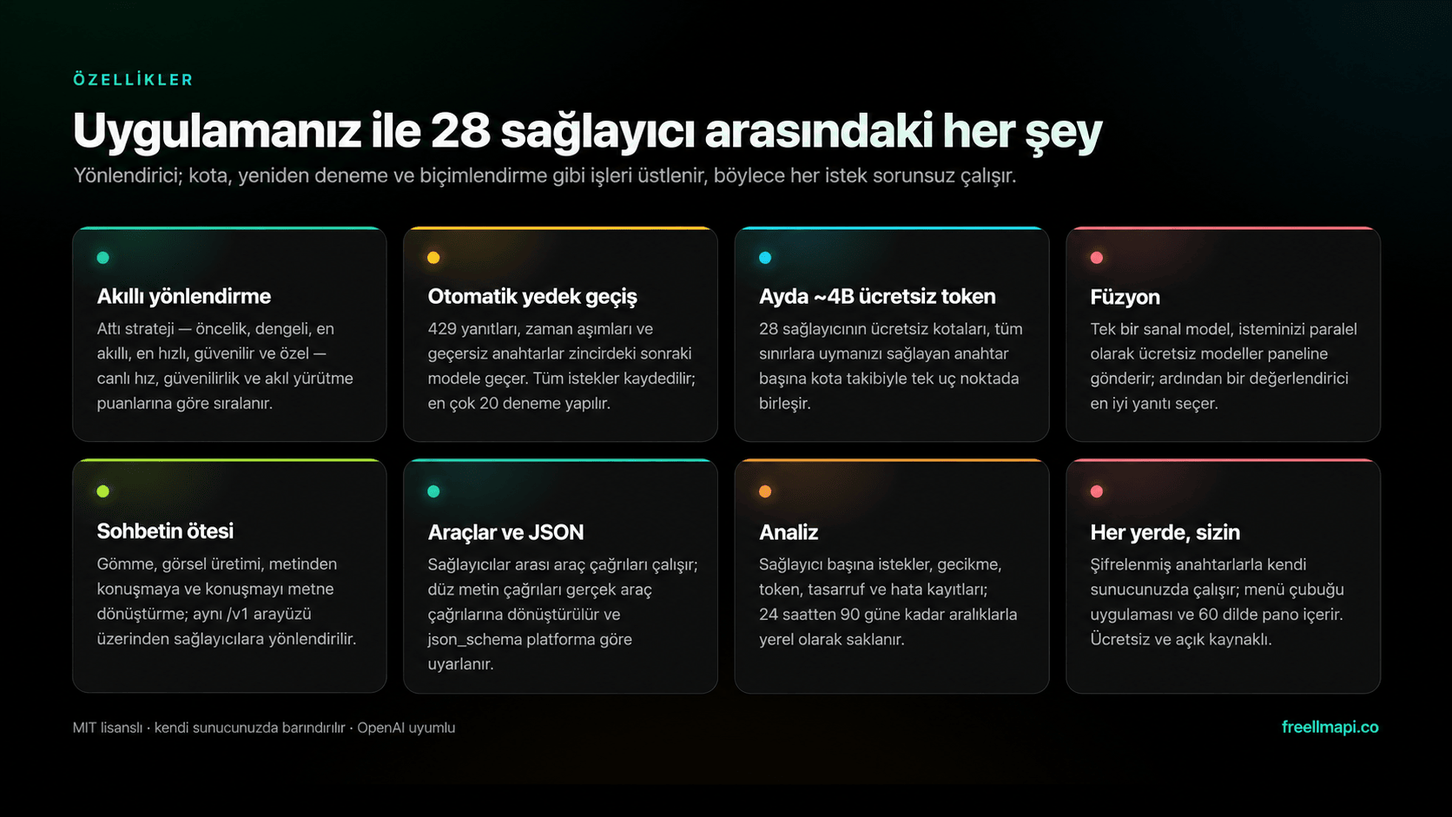
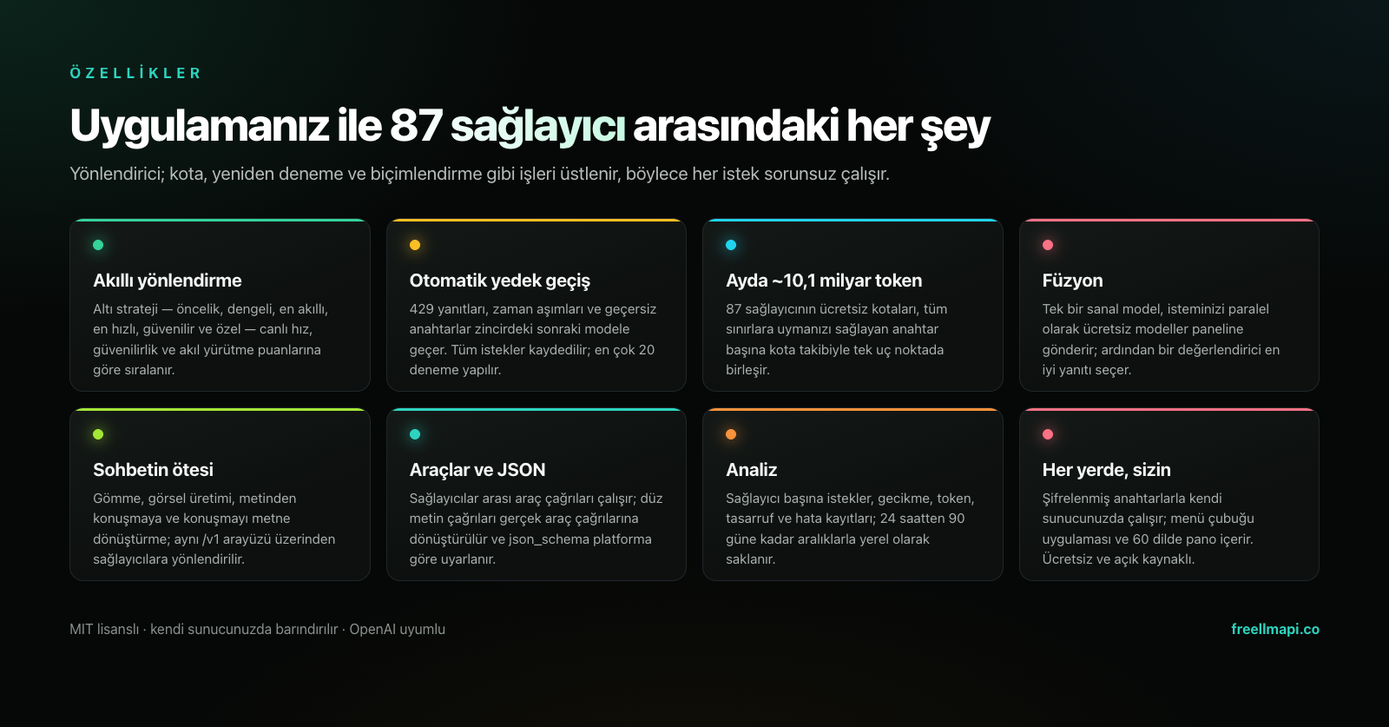
docs: refresh catalog numbers to 10.1B tokens, 87 providers, 1,313 endpoints
Updates the headline figures in the README (all five languages), the
architecture overview, and the four README graphics plus their Turkish
versions, from the live catalog 2026.11.12:

- 10.1 billion tokens/month: sum of every live-catalog row's listed
  monthlyTokenBudget (same per-endpoint method as the earlier 4B and 7.4B
  figures).
- 87 providers / 1,313 endpoints: /v1/meta live.inventory, matching the
  freellmapi.co homepage tiles.
- 736 model families (grouped by model name across all entry types).

Also fixes the stale 28-provider / ~4B / 339-endpoint figures that were
still baked into features.png, comparison.png and router-flow.png.

diff --git a/README.ru.md b/README.ru.md
@@ -2,7 +2,7 @@
 
 # FreeLLMAPI
 
-**7,4 миллиарда токенов в месяц. 34 бесплатных LLM-провайдера. 635 бесплатных модельных эндпоинтов. Один OpenAI-совместимый API.**
+**10,1 миллиарда токенов в месяц. 87 бесплатных LLM-провайдеров. 1313 бесплатных модельных эндпоинтов. Один OpenAI-совместимый API.**
 
 Объединяйте бесплатные тарифы десятков провайдеров, а также собственные OpenAI-совместимые эндпоинты для чата, эмбеддингов, генерации изображений и работы с аудио через единый API `/v1`. Ключи хранятся в зашифрованном виде. Маршрутизатор выбирает наиболее подходящую доступную модель, при ограничении запросов переключается на другого провайдера и учитывает расход по каждому ключу, помогая соблюдать бесплатные квоты.
 
@@ -13,7 +13,7 @@
 [![Docker image](https://img.shields.io/badge/ghcr.io-freellmapi-2496ED?logo=docker&logoColor=white)](https://github.com/tashfeenahmed/freellmapi/pkgs/container/freellmapi)
 [![Ask DeepWiki](https://img.shields.io/badge/DeepWiki-Ask-blue)](https://deepwiki.com/tashfeenahmed/freellmapi)
 
-**[freellmapi.co](https://freellmapi.co/?utm_source=github&utm_medium=readme&utm_campaign=repository&utm_content=readme_top)** · полный каталог: 474 семейства моделей и 635 бесплатных эндпоинтов
+**[freellmapi.co](https://freellmapi.co/?utm_source=github&utm_medium=readme&utm_campaign=repository&utm_content=readme_top)** · полный каталог: 736 семейств моделей и 1313 бесплатных эндпоинтов
 
 [English](README.md) · [Türkçe](README.tr.md) · [简体中文](README.zh-cn.md) · **Русский** · [O'zbekcha](README.uz.md)
 
@@ -61,13 +61,13 @@
 
 ## Зачем нужен FreeLLMAPI
 
-Крупные разработчики ИИ предлагают бесплатные тарифы: иногда это миллионы токенов в месяц и тысячи запросов в день. У каждого отдельно квота невелика, но в совокупности получается около **7,4 миллиарда токенов в месяц** для **474 семейств моделей и 635 эндпоинтов провайдеров**, от небольших быстрых моделей до более мощных.
+Крупные разработчики ИИ предлагают бесплатные тарифы: иногда это миллионы токенов в месяц и тысячи запросов в день. У каждого отдельно квота невелика, но в совокупности получается около **10,1 миллиарда токенов в месяц** для **736 семейств моделей и 1313 эндпоинтов провайдеров**, от небольших быстрых моделей до более мощных.
 
-Управлять таким количеством сервисов вручную неудобно: 34 SDK, 34 набора ограничений и столько же потенциальных точек отказа. FreeLLMAPI объединяет всё в одном OpenAI-совместимом API. Достаточно направить клиентскую библиотеку OpenAI на локальный сервер, и запросы будут распределяться между провайдерами, для которых вы добавили ключи.
+Управлять таким количеством сервисов вручную неудобно: 87 SDK, 87 наборов ограничений и столько же потенциальных точек отказа. FreeLLMAPI объединяет всё в одном OpenAI-совместимом API. Достаточно направить клиентскую библиотеку OpenAI на локальный сервер, и запросы будут распределяться между провайдерами, для которых вы добавили ключи.
 
 Бесплатные тарифы постоянно меняются: модели появляются и исчезают, ограничения корректируются. FreeLLMAPI автоматически загружает подписанный каталог с [freellmapi.co](https://freellmapi.co), поэтому данные обновляются без `git pull`. О различиях в скорости обновления рассказывается в разделе [Premium и оперативный каталог](#premium-и-оперативный-каталог).
 
-![Объединение бесплатных тарифов: около 7,4 млрд токенов в месяц от 34 провайдеров](repo-assets/free-tier.png)
+![Объединение бесплатных тарифов: около 10,1 млрд токенов в месяц от 87 провайдеров](repo-assets/free-tier.png)
 
 ## Поддерживаемые провайдеры
 
@@ -95,7 +95,7 @@
 </tr>
 </table>
 
-<i>… и ещё 22 бесплатных провайдера</i>
+<i>… и ещё 75 бесплатных провайдеров</i>
 
 </div>
 
@@ -213,7 +213,7 @@ FreeLLMAPI рассчитан прежде всего на локальное и
 
 Маршрутизатор поддерживает каталог моделей в актуальном состоянии: дважды в день скачивает подписанный каталог с [freellmapi.co](https://freellmapi.co) и обновляет локальную БД новыми моделями, изменениями квот и исправлениями особенностей провайдеров. Ваши настройки включения/отключения моделей и пользовательские провайдеры остаются нетронутыми. Каждая загрузка перед применением проверяется закреплённым ключом Ed25519.
 
-В каталоге представлены **34 провайдера**, **474 семейства моделей**, **635 бесплатных сочетаний провайдер/модель** (584 для чата, 41 для эмбеддингов, 7 для транскрибации и 3 для видео), а заявленная общая бесплатная ёмкость составляет примерно **7,4 миллиарда токенов в месяц**. Полный список: **[freellmapi.co/models](https://freellmapi.co/models.html)**.
+В каталоге представлены **87 провайдеров**, **736 семейств моделей**, **1313 бесплатных сочетаний провайдер/модель** (1137 для чата, 29 для изображений, 41 для аудио, 68 для эмбеддингов, 19 для транскрибации, 6 для видео и 13 для принятия решений), а заявленная общая бесплатная ёмкость составляет примерно **10,1 миллиарда токенов в месяц**. Полный список: **[freellmapi.co/models](https://freellmapi.co/models.html)**.
 
 Бесплатные установки получают тот же подписанный каталог, но из ежемесячного снимка. Новая модель появляется там спустя 30 дней после оперативного каталога, поэтому бесплатная версия сейчас отстаёт примерно на 303 модели. Ничего не отключается и не истекает: обновления просто приходят позже.
 

diff --git a/README.tr.md b/README.tr.md
@@ -2,7 +2,7 @@
 
 # FreeLLMAPI
 
-**Ayda 7,4 milyar token. 34 ücretsiz LLM sağlayıcısı. 635 ücretsiz model uç noktası. OpenAI uyumlu tek bir uç nokta.**
+**Ayda 10,1 milyar token. 87 ücretsiz LLM sağlayıcısı. 1.313 ücretsiz model uç noktası. OpenAI uyumlu tek bir uç nokta.**
 
 Onlarca sağlayıcının ücretsiz kullanım kotalarını ve özel OpenAI uyumlu sohbet, gömme (embedding), görüntü ve ses uç noktalarını tek bir `/v1` API’sinde birleştirin. Anahtarlar şifreli saklanır. Yönlendirici, her istek için kullanılabilir en iyi modeli seçer; bir sağlayıcı hız sınırına ulaştığında sıradakine geçer ve ücretsiz kotaları aşmamak için kullanımı anahtar bazında izler.
 
@@ -13,7 +13,7 @@ Onlarca sağlayıcının ücretsiz kullanım kotalarını ve özel OpenAI uyumlu
 [![Docker image](https://img.shields.io/badge/ghcr.io-freellmapi-2496ED?logo=docker&logoColor=white)](https://github.com/tashfeenahmed/freellmapi/pkgs/container/freellmapi)
 [![Ask DeepWiki](https://img.shields.io/badge/DeepWiki-Ask-blue)](https://deepwiki.com/tashfeenahmed/freellmapi)
 
-**[freellmapi.co](https://freellmapi.co/?utm_source=github&utm_medium=readme&utm_campaign=repository&utm_content=readme_top)** · tüm kataloğa göz atın: 474 model ailesi, 635 ücretsiz uç nokta
+**[freellmapi.co](https://freellmapi.co/?utm_source=github&utm_medium=readme&utm_campaign=repository&utm_content=readme_top)** · tüm kataloğa göz atın: 736 model ailesi, 1.313 ücretsiz uç nokta
 
 [English](README.md) · **Türkçe** · [简体中文](README.zh-cn.md) · [Русский](README.ru.md) · [O'zbekcha](README.uz.md)
 
@@ -60,13 +60,13 @@ Yönlendiriciniz model kataloğunu imzalı bir akıştan kendisi günceller: yen
 
 ## Neden geliştirildi?
 
-Günümüzde önde gelen yapay zekâ laboratuvarları ayda birkaç milyon token, günde birkaç bin istek sunan ücretsiz planlar sağlıyor. Tek başlarına sınırlı olsalar da bir araya geldiklerinde, küçük ve hızlı modellerden oldukça yetenekli modellere kadar **474 model ailesi / 635 sağlayıcı uç noktası** üzerinden **ayda yaklaşık 7,4 milyar token** çıkarım kapasitesine ulaşıyorlar.
+Günümüzde önde gelen yapay zekâ laboratuvarları ayda birkaç milyon token, günde birkaç bin istek sunan ücretsiz planlar sağlıyor. Tek başlarına sınırlı olsalar da bir araya geldiklerinde, küçük ve hızlı modellerden oldukça yetenekli modellere kadar **736 model ailesi / 1.313 sağlayıcı uç noktası** üzerinden **ayda yaklaşık 10,1 milyar token** çıkarım kapasitesine ulaşıyorlar.
 
-Bunları elle birleştirmek zahmetli: otuz dört farklı SDK, otuz dört farklı hız sınırı ve bir isteğin başarısız olabileceği otuz dört ayrı yer. FreeLLMAPI hepsini OpenAI uyumlu tek bir uç noktada toplar. Herhangi bir OpenAI istemci kitaplığını yerel sunucunuza yönlendirin; istekler, anahtar eklediğiniz sağlayıcılar arasında istemciye yansımadan yönlendirilir.
+Bunları elle birleştirmek zahmetli: seksen yedi farklı SDK, seksen yedi farklı hız sınırı ve bir isteğin başarısız olabileceği seksen yedi ayrı yer. FreeLLMAPI hepsini OpenAI uyumlu tek bir uç noktada toplar. Herhangi bir OpenAI istemci kitaplığını yerel sunucunuza yönlendirin; istekler, anahtar eklediğiniz sağlayıcılar arasında istemciye yansımadan yönlendirilir.
 
 Ücretsiz planlar da her hafta değişiyor: sağlayıcılar yeni modeller çıkarıyor, eskilerini kaldırıyor ve kotaları haber vermeden değiştiriyor. FreeLLMAPI bunları sizin için takip eder. Yönlendirici, imzalı model kataloğunu [freellmapi.co](https://freellmapi.co) üzerinden kendisi alır; kurulumunuz `git pull` gerekmeden güncel kalır. Güncellemelerin ne kadar hızlı geldiği için [Premium (canlı katalog)](#premium-live-catalog) bölümüne bakın.
 
-![Ücretsiz planlar bir arada — 34 sağlayıcıdan ayda yaklaşık 7,4 milyar token](repo-assets/i18n/tr/free-tier.png)
+![Ücretsiz planlar bir arada — 87 sağlayıcıdan ayda yaklaşık 10,1 milyar token](repo-assets/i18n/tr/free-tier.png)
 
 <a id="supported-providers"></a>
 
@@ -96,7 +96,7 @@ Bunları elle birleştirmek zahmetli: otuz dört farklı SDK, otuz dört farklı
 </tr>
 </table>
 
-<i>… ve 22 ücretsiz sağlayıcı daha</i>
+<i>… ve 75 ücretsiz sağlayıcı daha</i>
 
 </div>
 
@@ -232,7 +232,7 @@ Tam dil listesi [`client/src/i18n/locale-config.ts`](./client/src/i18n/locale-co
 
 Yönlendirici model kataloğunu kendisi güncel tutar: günde iki kez [freellmapi.co](https://freellmapi.co) üzerinden imzalı kataloğu alır, yeni modelleri, kota değişikliklerini ve sağlayıcılara özgü uyumluluk düzeltmelerini yerel veritabanınıza uygular. Etkinleştirme/devre dışı bırakma seçimleriniz ve özel sağlayıcılarınız değişmez. Her indirme uygulanmadan önce sabitlenmiş Ed25519 anahtarıyla doğrulanır.
 
-Katalog şu anda **34 sağlayıcı**, **474 model ailesi**, **635 ücretsiz sağlayıcı/model uç noktası** (584 sohbet, 41 gömme, 7 ses dökümü, 3 video) ve listelenen ücretsiz planlarda **ayda yaklaşık 7,4 milyar token** kapasitesini izler. Tam liste: **[freellmapi.co/models](https://freellmapi.co/models.html)**.
+Katalog şu anda **87 sağlayıcı**, **736 model ailesi**, **1.313 ücretsiz sağlayıcı/model uç noktası** (1.137 sohbet, 29 görsel, 41 ses, 68 gömme, 19 ses dökümü, 6 video, 13 karar) ve listelenen ücretsiz planlarda **ayda yaklaşık 10,1 milyar token** kapasitesini izler. Tam liste: **[freellmapi.co/models](https://freellmapi.co/models.html)**.
 
 Ücretsiz kurulumlar aynı imzalı kataloğun aylık anlık görüntüsünü alır. Bir model, canlı akışa eklendikten 30 gün sonra bu görüntüye katılır; bu nedenle ücretsiz sürüm şu anda yaklaşık 303 model geridedir. Hiçbir şeyin süresi dolmaz ve hiçbir özellik kısıtlanmaz; modeller yalnızca daha geç gelir.
 

diff --git a/README.uz.md b/README.uz.md
@@ -2,7 +2,7 @@
 
 # FreeLLMAPI
 
-**Oyiga 7,4 milliard token. 34 ta bepul LLM provayderi. 635 ta bepul model endpointi. OpenAI bilan mos bitta endpoint.**
+**Oyiga 10,1 milliard token. 87 ta bepul LLM provayderi. 1313 ta bepul model endpointi. OpenAI bilan mos bitta endpoint.**
 
 O'nlab provayderlarning bepul tariflarini, shuningdek, OpenAI bilan mos keladigan istalgan chat, embedding, rasm va audio endpointlaringizni bitta `/v1` API orqasida birlashtiring. Kalitlar shifrlangan holda saqlanadi. Router har bir so'rov uchun eng yaxshi mavjud modelni tanlaydi, provayder limitga yetganda keyingisiga o'tadi va har bir kalitning sarfini kuzatib boradi, shunda siz hech bir bepul tarif limitidan oshib ketmaysiz.
 
@@ -13,7 +13,7 @@ O'nlab provayderlarning bepul tariflarini, shuningdek, OpenAI bilan mos keladiga
 [![Docker image](https://img.shields.io/badge/ghcr.io-freellmapi-2496ED?logo=docker&logoColor=white)](https://github.com/tashfeenahmed/freellmapi/pkgs/container/freellmapi)
 [![Ask DeepWiki](https://img.shields.io/badge/DeepWiki-Ask-blue)](https://deepwiki.com/tashfeenahmed/freellmapi)
 
-**[freellmapi.co](https://freellmapi.co/?utm_source=github&utm_medium=readme&utm_campaign=repository&utm_content=readme_top)** · to'liq katalogni ko'ring: 474 ta model oilasi, 635 ta bepul endpoint
+**[freellmapi.co](https://freellmapi.co/?utm_source=github&utm_medium=readme&utm_campaign=repository&utm_content=readme_top)** · to'liq katalogni ko'ring: 736 ta model oilasi, 1313 ta bepul endpoint
 
 [English](README.md) · [Türkçe](README.tr.md) · [简体中文](README.zh-cn.md) · [Русский](README.ru.md) · **O'zbekcha**
 
@@ -60,13 +60,13 @@ Routeringiz model katalogini imzolangan manbadan o'zi yangilaydi: yangi bepul mo
 
 ## Bu loyiha nega kerak
 
-Bugun har bir jiddiy AI laboratoriyasi bepul tarif taklif qiladi: oyiga bir necha million token, kuniga bir necha ming so'rov. Alohida olinganda har bir tarif o'yinchoqdek gap. Lekin ularni birlashtirsangiz, oyiga taxminan **7,4 milliard token** ishchi inference quvvati hosil bo'ladi. Bu kichik va tezkor modellardan tortib ancha qobiliyatlilarigacha bo'lgan **474 ta model oilasi / 635 ta provayder endpointi**ni qamrab oladi.
+Bugun har bir jiddiy AI laboratoriyasi bepul tarif taklif qiladi: oyiga bir necha million token, kuniga bir necha ming so'rov. Alohida olinganda har bir tarif o'yinchoqdek gap. Lekin ularni birlashtirsangiz, oyiga taxminan **10,1 milliard token** ishchi inference quvvati hosil bo'ladi. Bu kichik va tezkor modellardan tortib ancha qobiliyatlilarigacha bo'lgan **736 ta model oilasi / 1313 ta provayder endpointi**ni qamrab oladi.
 
-Muammo shundaki, ularni qo'lda birlashtirish juda og'ir: o'ttiz to'rtta turli SDK, o'ttiz to'rtta turli limit, so'rov xato berishi mumkin bo'lgan o'ttiz to'rtta joy. FreeLLMAPI bularning hammasini OpenAI bilan mos bitta endpointga jamlaydi. Istalgan OpenAI klient kutubxonasini lokal serveringizga yo'naltiring, u esa so'rovlarni siz kalit qo'shgan provayderlar bo'ylab sezdirmasdan taqsimlaydi.
+Muammo shundaki, ularni qo'lda birlashtirish juda og'ir: sakson yettita turli SDK, sakson yettita turli limit, so'rov xato berishi mumkin bo'lgan sakson yettita joy. FreeLLMAPI bularning hammasini OpenAI bilan mos bitta endpointga jamlaydi. Istalgan OpenAI klient kutubxonasini lokal serveringizga yo'naltiring, u esa so'rovlarni siz kalit qo'shgan provayderlar bo'ylab sezdirmasdan taqsimlaydi.
 
 Bundan tashqari, bepul tariflar manzarasi har hafta o'zgaradi: provayderlar ogohlantirmasdan model chiqaradi, eskilarini o'chiradi va limitlarni o'zgartiradi. FreeLLMAPI bularning barchasini siz uchun kuzatib boradi. Router imzolangan model katalogini [freellmapi.co](https://freellmapi.co) dan o'zi tortib oladi, shuning uchun o'rnatmangiz `git pull` qilmasdan ham dolzarb bo'lib turadi. Qanchalik tez yangilanishi haqida [Premium (jonli katalog)](#premium-jonli-katalog) bo'limida o'qing.
 
-![Bepul tariflar birlashtirilganda: 34 ta provayder bo'ylab oyiga ~7,4 mlrd token bepul inference](repo-assets/free-tier.png)
+![Bepul tariflar birlashtirilganda: 87 ta provayder bo'ylab oyiga ~10,1 mlrd token bepul inference](repo-assets/free-tier.png)
 
 ## Qo'llab-quvvatlanadigan provayderlar
 
@@ -94,7 +94,7 @@ Bundan tashqari, bepul tariflar manzarasi har hafta o'zgaradi: provayderlar ogoh
 </tr>
 </table>
 
-<i>… va yana 22 ta bepul provayder</i>
+<i>… va yana 75 ta bepul provayder</i>
 
 </div>
 
@@ -236,9 +236,10 @@ qo'llaydi. Siz o'zingiz yoqqan yoki o'chirgan modellarga va o'z provayderlaringi
 qachon tegilmaydi. Har bir yuklab olingan fayl qo'llanishidan oldin qat'iy belgilangan
 Ed25519 kaliti bilan tekshiriladi.
 
-Hozir katalog **34 ta provayder**, **474 ta model oilasi**, **635 ta bepul provayder/model
-endpointi** (584 ta chat, 41 ta embedding, 7 ta transkripsiya, 3 ta video) va ro'yxatga
-olingan bepul tariflardagi oyiga taxminan **7,4 milliard token** quvvatni kuzatadi. To'liq
+Hozir katalog **87 ta provayder**, **736 ta model oilasi**, **1313 ta bepul provayder/model
+endpointi** (1137 ta chat, 29 ta rasm, 41 ta audio, 68 ta embedding, 19 ta transkripsiya,
+6 ta video, 13 ta qaror) va ro'yxatga olingan bepul tariflardagi oyiga taxminan
+**10,1 milliard token** quvvatni kuzatadi. To'liq
 ro'yxatni **[freellmapi.co/models](https://freellmapi.co/models.html)** da ko'ring.
 
 Bepul o'rnatmalar ham xuddi shu imzolangan katalogni oladi, lekin oylik snapshotdan: model

diff --git a/README.zh-cn.md b/README.zh-cn.md
@@ -2,7 +2,7 @@
 
 # FreeLLMAPI
 
-**每月 74 亿词元。34 家免费 LLM 提供方。635 个免费模型端点。一个 OpenAI 兼容端点。**
+**每月 101 亿词元。87 家免费 LLM 提供方。1,313 个免费模型端点。一个 OpenAI 兼容端点。**
 
 把几十家提供方的免费额度，连同任意自建的 OpenAI 兼容聊天、嵌入、图像和音频端点，一起聚合到单个 `/v1` API 之后。密钥加密存储。路由器为每个请求挑选当前可用的最佳模型，某家提供方触发限流时自动转移到下一家，并按密钥跟踪用量，让你始终待在各家的免费额度之内。
 
@@ -13,7 +13,7 @@
 [![Docker image](https://img.shields.io/badge/ghcr.io-freellmapi-2496ED?logo=docker&logoColor=white)](https://github.com/tashfeenahmed/freellmapi/pkgs/container/freellmapi)
 [![Ask DeepWiki](https://img.shields.io/badge/DeepWiki-Ask-blue)](https://deepwiki.com/tashfeenahmed/freellmapi)
 
-**[freellmapi.co](https://freellmapi.co/?utm_source=github&utm_medium=readme&utm_campaign=repository&utm_content=readme_top)** · 浏览完整目录：474 个模型系列，635 个免费端点
+**[freellmapi.co](https://freellmapi.co/?utm_source=github&utm_medium=readme&utm_campaign=repository&utm_content=readme_top)** · 浏览完整目录：736 个模型系列，1,313 个免费端点
 
 [English](README.md) · [Türkçe](README.tr.md) · **简体中文** · [Русский](README.ru.md) · [O'zbekcha](README.uz.md)
 
@@ -54,13 +54,13 @@
 
 ## 为什么会有这个项目
 
-如今每家正经的 AI 实验室都提供免费额度：每月几百万词元，每天几千次请求。单独看，每一份都只是个玩具。叠加起来，它们合计约 **每月 74 亿词元** 的可用推理能力，覆盖 **474 个模型系列 / 635 个提供方端点**，从小而快的到相当能打的都有。
+如今每家正经的 AI 实验室都提供免费额度：每月几百万词元，每天几千次请求。单独看，每一份都只是个玩具。叠加起来，它们合计约 **每月 101 亿词元** 的可用推理能力，覆盖 **736 个模型系列 / 1,313 个提供方端点**，从小而快的到相当能打的都有。
 
-问题在于手工叠加太痛苦：三十四套不同的 SDK，三十四种不同的限流规则，三十四个请求可能失败的地方。FreeLLMAPI 把这些收拢成一个 OpenAI 兼容端点。把任意 OpenAI 客户端库指向你的本地服务，它就会在你添加过密钥的提供方之间透明路由。
+问题在于手工叠加太痛苦：八十七套不同的 SDK，八十七种不同的限流规则，八十七个请求可能失败的地方。FreeLLMAPI 把这些收拢成一个 OpenAI 兼容端点。把任意 OpenAI 客户端库指向你的本地服务，它就会在你添加过密钥的提供方之间透明路由。
 
 而且免费额度的格局每周都在变：提供方会上线新模型、下线旧模型，并且不打招呼就调整额度。这些 FreeLLMAPI 都替你盯着。路由器会自行从 [freellmapi.co](https://freellmapi.co) 拉取经过签名的模型目录，所以你的部署不用 `git pull` 也能跟上。跟进速度见 [Premium 实时目录](#premium-实时目录)。
 
-![叠加后的免费额度 —— 34 家提供方合计每月约 74 亿词元的免费推理](repo-assets/free-tier.png)
+![叠加后的免费额度 —— 87 家提供方合计每月约 101 亿词元的免费推理](repo-assets/free-tier.png)
 
 ## 支持的提供方
 
@@ -88,7 +88,7 @@
 </tr>
 </table>
 
-<i>…… 以及另外 22 家免费提供方</i>
+<i>…… 以及另外 75 家免费提供方</i>
 
 </div>
 
@@ -235,7 +235,7 @@ FreeLLMAPI 在设计上是本地优先、单用户的。你的提供方密钥留
 
 路由器会自行保持模型目录的新鲜：它每天两次从 [freellmapi.co](https://freellmapi.co) 拉取经过签名的目录，把新模型、额度变更和提供方的怪癖修复应用到你的本地数据库。你自己的启用/停用选择和自定义提供方永远不会被动到，而且每次下载在应用之前都会用固定的 Ed25519 公钥验签。
 
-目录目前收录 **34 家提供方**、**474 个模型系列**、**635 个免费提供方/模型端点**（584 个聊天、41 个嵌入、7 个转录、3 个视频），以及大约 **每月 74 亿词元** 的免费额度容量。完整内容可在 **[freellmapi.co/models](https://freellmapi.co/models.html)** 浏览。
+目录目前收录 **87 家提供方**、**736 个模型系列**、**1,313 个免费提供方/模型端点**（1,137 个聊天、29 个图像、41 个音频、68 个嵌入、19 个转录、6 个视频、13 个决策），以及大约 **每月 101 亿词元** 的免费额度容量。完整内容可在 **[freellmapi.co/models](https://freellmapi.co/models.html)** 浏览。
 
 Premium 让这份签名目录在你运行的每一个路由器上保持实时。当某家提供方上线了一个强力的免费模型、悄悄收紧了额度，或者改坏了协议格式，订阅了实时源的路由器会在我们发布的第一时间收到更新。
 

diff --git a/README.md b/README.md
@@ -2,7 +2,7 @@
 
 # FreeLLMAPI
 
-**7.4 billion tokens per month.  34 free LLM providers. 635 free model endpoints. One OpenAI-compatible endpoint.**
+**10.1 billion tokens per month.  87 free LLM providers. 1,313 free model endpoints. One OpenAI-compatible endpoint.**
 
 Aggregate free tiers from dozens of providers, plus custom OpenAI-compatible chat, embedding, image, and audio endpoints, behind a single `/v1` API. Keys are stored encrypted. A router picks the best available model for each request, falls over to the next provider when one is rate-limited, and tracks per-key usage so you stay under every free-tier cap.
 
@@ -13,7 +13,7 @@ Aggregate free tiers from dozens of providers, plus custom OpenAI-compatible cha
 [![Docker image](https://img.shields.io/badge/ghcr.io-freellmapi-2496ED?logo=docker&logoColor=white)](https://github.com/tashfeenahmed/freellmapi/pkgs/container/freellmapi)
 [![Ask DeepWiki](https://img.shields.io/badge/DeepWiki-Ask-blue)](https://deepwiki.com/tashfeenahmed/freellmapi)
 
-**[freellmapi.co](https://freellmapi.co/?utm_source=github&utm_medium=readme&utm_campaign=repository&utm_content=readme_top)** · browse the full catalog: 474 model families, 635 free endpoints
+**[freellmapi.co](https://freellmapi.co/?utm_source=github&utm_medium=readme&utm_campaign=repository&utm_content=readme_top)** · browse the full catalog: 736 model families, 1,313 free endpoints
 
 **English** · [Türkçe](README.tr.md) · [简体中文](README.zh-cn.md) · [Русский](README.ru.md) · [O'zbekcha](README.uz.md)
 
@@ -59,13 +59,13 @@ Your router updates its own model catalog from a signed feed: new free models, q
 
 ## Why this exists
 
-Every serious AI lab now offers a free tier, a few million tokens a month, a few thousand requests a day. On its own each tier is a toy. Stacked together, they add up to roughly **7.4 billion tokens per month** of working inference capacity, across **474 model families / 635 provider endpoints** from small-and-fast to reasonably capable.
+Every serious AI lab now offers a free tier, a few million tokens a month, a few thousand requests a day. On its own each tier is a toy. Stacked together, they add up to roughly **10.1 billion tokens per month** of working inference capacity, across **736 model families / 1,313 provider endpoints** from small-and-fast to reasonably capable.
 
-The problem is that stacking them by hand is painful: thirty-four different SDKs, thirty-four different rate limits, thirty-four places a request can fail. FreeLLMAPI collapses that into one OpenAI-compatible endpoint. Point any OpenAI client library at your local server, and it routes transparently across whichever providers you've added keys for.
+The problem is that stacking them by hand is painful: eighty-seven different SDKs, eighty-seven different rate limits, eighty-seven places a request can fail. FreeLLMAPI collapses that into one OpenAI-compatible endpoint. Point any OpenAI client library at your local server, and it routes transparently across whichever providers you've added keys for.
 
 And the free-tier landscape shifts weekly: providers launch models, retire them, and change quotas without notice. FreeLLMAPI tracks all of that for you. The router pulls a signed model catalog from [freellmapi.co](https://freellmapi.co) on its own, so your install keeps up without a `git pull`. See [Premium (live catalog)](#premium-live-catalog) for how fast it keeps up.
 
-![The free tier, stacked — ~7.4B tokens of free inference per month across 34 providers](repo-assets/free-tier.png)
+![The free tier, stacked — ~10.1B tokens of free inference per month across 87 providers](repo-assets/free-tier.png)
 
 ## Supported providers
 
@@ -93,7 +93,7 @@ And the free-tier landscape shifts weekly: providers launch models, retire them,
 </tr>
 </table>
 
-<i>… and 22 more free providers</i>
+<i>… and 75 more free providers</i>
 
 </div>
 
@@ -234,10 +234,10 @@ quota changes, and provider quirk fixes to your local DB. Your own
 enable/disable choices and custom providers are never touched, and every
 download is verified against a pinned Ed25519 key before it is applied.
 
-The catalog currently tracks **34 providers**, **474 model families**, **635
-free provider/model endpoints** (584 chat, 41 embeddings, 7 transcription, 3
-video), and roughly **7.4 billion tokens per month** of listed free-tier
-capacity. Browse the full set at
+The catalog currently tracks **87 providers**, **736 model families**, **1,313
+free provider/model endpoints** (1,137 chat, 29 image, 41 audio, 68 embeddings,
+19 transcription, 6 video, 13 decision), and roughly **10.1 billion tokens per
+month** of listed free-tier capacity. Browse the full set at
 **[freellmapi.co/models](https://freellmapi.co/models.html)**.
 
 Free installs pull the same signed catalog, but from the monthly snapshot: a

diff --git a/docs/zh-cn/architecture/00-high-level-index.md b/docs/zh-cn/architecture/00-high-level-index.md
@@ -4,7 +4,7 @@
 
 [← 返回 README](../../../README.zh-cn.md) · [文档索引](../README.md) · [深入解析域](OVERVIEW.md)
 
-FreeLLMAPI 是一个自托管的、兼容 OpenAI 的网关，把约 34 家提供方的免费额度叠加在一个 `freellmapi-…` Bearer 令牌之后。一个 Express 代理暴露 `/v1/chat/completions`（以及 `/v1/responses`、`/v1/messages`、`/v1/completions`、`/v1/embeddings` 和 `/v1/models`）；每次请求时，路由器挑选一个状态健康、且未触及任何限流的最佳模型，在内存中解密其上游密钥，再把响应流式传回。
+FreeLLMAPI 是一个自托管的、兼容 OpenAI 的网关，把约 87 家提供方的免费额度叠加在一个 `freellmapi-…` Bearer 令牌之后。一个 Express 代理暴露 `/v1/chat/completions`（以及 `/v1/responses`、`/v1/messages`、`/v1/completions`、`/v1/embeddings` 和 `/v1/models`）；每次请求时，路由器挑选一个状态健康、且未触及任何限流的最佳模型，在内存中解密其上游密钥，再把响应流式传回。
 
 没有哪一家的免费额度足以单独支撑日常使用，所以路由器把目录当作一条汇聚的回退链来对待：通过 Thompson 采样的老虎机算法实时评估可靠性、速度、能力和余量，用持久化账本执行 RPM/RPD/TPM/TPD 与提供方级上限，并在墙钟预算内跨最多 20 次尝试进行故障转移。当链路顶端的模型耗尽当日额度时，端点会平滑降级到下一档健康模型，并在 UTC 午夜重置。
 
@@ -37,7 +37,7 @@ FreeLLMAPI 是一个自托管的、兼容 OpenAI 的网关，把约 34 家提供
                                           │
    ┌──────────────┬────────────┬──────────┴─────────┬─────────────┬──────────┐
    ▼              ▼            ▼                    ▼             ▼          ▼
- Google         Groq        Cerebras           OpenRouter        HF       …29 more
+ Google         Groq        Cerebras           OpenRouter        HF       …82 more
 ```
 
 - **路由器**（`server/src/services/router.ts`）—— 为每次请求挑选模型。

diff --git a/docs/en/architecture/00-high-level-index.md b/docs/en/architecture/00-high-level-index.md
@@ -4,7 +4,7 @@
 
 [← Back to README](../../../README.md) · [Documentation index](../README.md) · [Deep-dive domain](OVERVIEW.md)
 
-FreeLLMAPI is a self-hosted OpenAI-compatible gateway that stacks the free tiers of ~34 providers behind a single `freellmapi-…` bearer token. An Express proxy exposes `/v1/chat/completions` (plus `/v1/responses`, `/v1/messages`, `/v1/completions`, `/v1/embeddings` and `/v1/models`) and, per request, the router selects the best healthy model that is under all of its rate limits, decrypts its upstream key in memory, and streams the response back.
+FreeLLMAPI is a self-hosted OpenAI-compatible gateway that stacks the free tiers of ~87 providers behind a single `freellmapi-…` bearer token. An Express proxy exposes `/v1/chat/completions` (plus `/v1/responses`, `/v1/messages`, `/v1/completions`, `/v1/embeddings` and `/v1/models`) and, per request, the router selects the best healthy model that is under all of its rate limits, decrypts its upstream key in memory, and streams the response back.
 
 Because no single free tier is generous enough to live on, the router treats the catalog as a pooled fallback chain: it scores live reliability, speed, capability and headroom via a Thompson-sampling bandit, enforces RPM/RPD/TPM/TPD and provider-wide caps with a persistent ledger, and fails over across up to 20 attempts within a wall-clock budget. When the top of the chain exhausts its daily caps the endpoint gracefully degrades to the next healthy tier and resets at UTC midnight.
 
@@ -37,7 +37,7 @@ See [OVERVIEW.md](OVERVIEW.md) for deep-dives.
                                           │
    ┌──────────────┬────────────┬──────────┴─────────┬─────────────┬──────────┐
    ▼              ▼            ▼                    ▼             ▼          ▼
- Google         Groq        Cerebras           OpenRouter        HF       …29 more
+ Google         Groq        Cerebras           OpenRouter        HF       …82 more
 ```
 
 - **Router** (`server/src/services/router.ts`) — picks a model per request.
